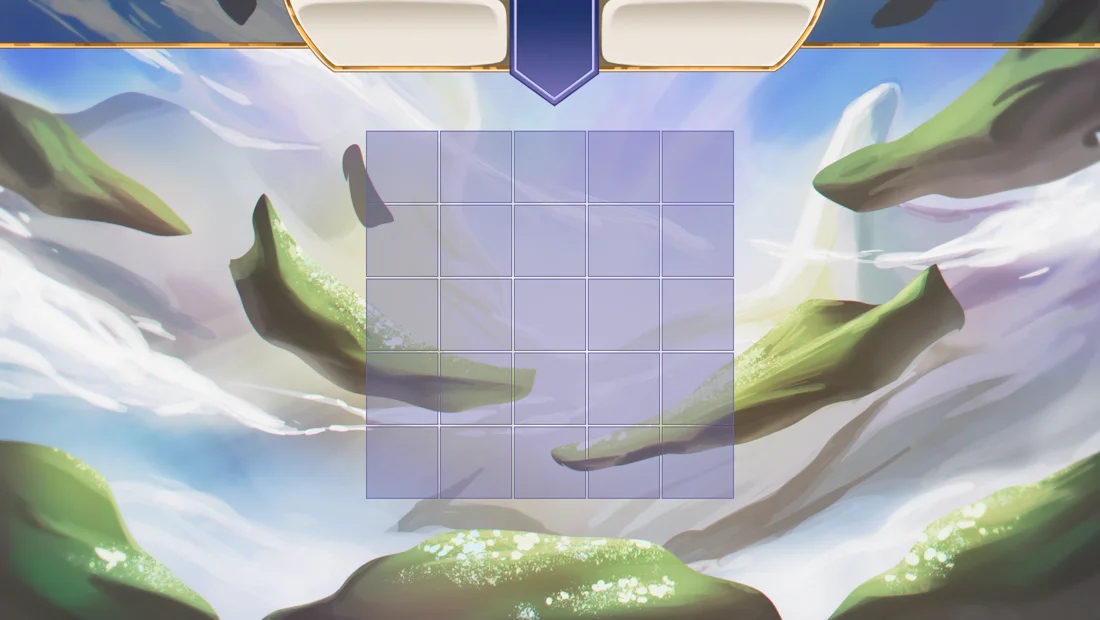
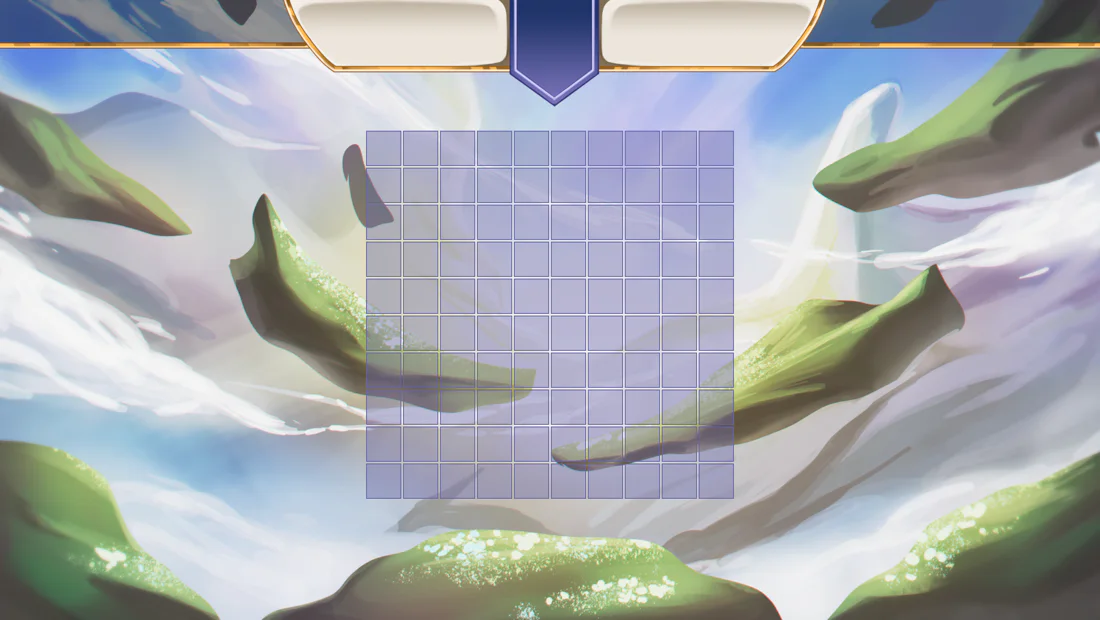
Stage 2/7

Changed region(s): [[0.34, 0.2145, 0.68, 0.7661], [0.5564, 0.7355, 0.6491, 0.7661]]

diff --git a/src/index.html b/src/index.html
@@ -2,7 +2,7 @@
 <html lang="en">
 <head>
     <meta charset="UTF-8">
-    <meta name="description" content="Stage 1/7: Your magic universe">
+    <meta name="description" content="Stage 2/7: The magic map">
     <meta name="viewport" content="width=device-width, initial-scale=1.0">
     <title>Fantastic Beings and How to Match Them</title>
     <link rel="stylesheet" href="style.css">
@@ -10,43 +10,7 @@
 <body>
 <div id="board">
     <div id="status-bar"></div>
-    <table id="map">
-        <tr>
-            <td class="cell"></td>
-            <td class="cell"></td>
-            <td class="cell"></td>
-            <td class="cell"></td>
-            <td class="cell"></td>
-        </tr>
-        <tr>
-            <td class="cell"></td>
-            <td class="cell"></td>
-            <td class="cell"></td>
-            <td class="cell"></td>
-            <td class="cell"></td>
-        </tr>
-        <tr>
-            <td class="cell"></td>
-            <td class="cell"></td>
-            <td class="cell"></td>
-            <td class="cell"></td>
-            <td class="cell"></td>
-        </tr>
-        <tr>
-            <td class="cell"></td>
-            <td class="cell"></td>
-            <td class="cell"></td>
-            <td class="cell"></td>
-            <td class="cell"></td>
-        </tr>
-        <tr>
-            <td class="cell"></td>
-            <td class="cell"></td>
-            <td class="cell"></td>
-            <td class="cell"></td>
-            <td class="cell"></td>
-        </tr>
-    </table>
+    <table id="map"></table>
 </div>
 <script src="main.js"></script>
 </body>

diff --git a/src/script.js b/src/script.js
@@ -1,0 +1,43 @@
+//Stage 2
+class MyApp {
+    constructor() {
+        this.rowsCount = 0;
+        this.colsCount = 0;
+        this.mapElement = document.getElementById('map');
+    }
+
+    renderMap(rowsCount, colsCount) {
+        this.rowsCount = rowsCount;
+        this.colsCount = colsCount;
+
+        for (let r = 0; r < this.rowsCount; r++) {
+            const trElement = document.createElement('tr');
+            for (let c = 0; c < this.colsCount; c++) {
+                const tdElement = document.createElement('td');
+                tdElement.setAttribute('class', 'cell');
+                tdElement.textContent = `${r} - ${c}`;
+                trElement.appendChild(tdElement);
+            }
+            this.mapElement.appendChild(trElement);
+        }
+    }
+
+    clearMap() {
+        this.mapElement.innerHTML = '';
+    }
+}
+
+window.myApp = new MyApp();
+window.clearMap = function() {
+    myApp.clearMap();
+};
+window.renderMap = function(rowsCount, colsCount) {
+    myApp.renderMap(rowsCount, colsCount);
+};
+window.clearMap();
+window.renderMap(5, 5);
+
+// Note-: If global "window" was not a requirement
+// const myApp = new MyApp();
+// myApp.clearMap();
+// myApp.renderMap(5, 5);

diff --git a/src/style.css b/src/style.css
@@ -32,3 +32,4 @@ body {
     border: 1px solid rgb(103, 101, 168);
     background-color: rgba(103, 101, 168, 0.4);
 }
+/*2*/
